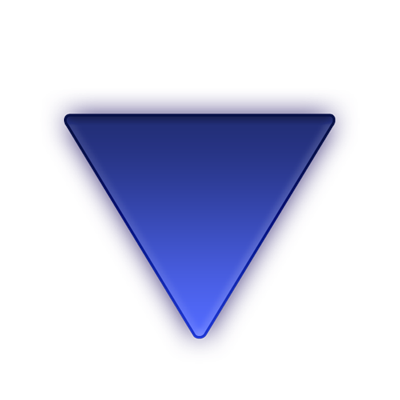
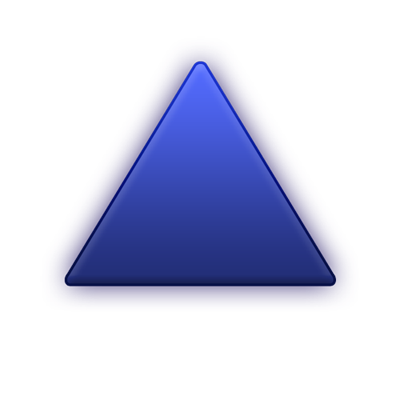
Initial Animations Complete

diff --git a/MagicEightBall/ViewController.swift b/MagicEightBall/ViewController.swift
@@ -45,7 +45,6 @@ class ViewController: UIViewController {
             chosenAnswer = "It's not the spoon that moves, but you..."
         }
         
-        
         return chosenAnswer
     }
     
@@ -85,7 +84,7 @@ class ViewController: UIViewController {
         case 3:
             chosenAnswer = "Outlook not so good"
         case 4:
-            chosenAnswer = "Very doubtful"            
+            chosenAnswer = "Very doubtful"
         default:
             chosenAnswer = "It's not the spoon that moves, but you..."
         }
@@ -96,13 +95,48 @@ class ViewController: UIViewController {
     override func viewDidLoad() {
         super.viewDidLoad()
         
-        triangleBackground.isHidden = true
+        triangleBackground.alpha = 0
+        textInsideTriangle.alpha = 0
     }
 
+    // when "buttonWasPressed" is ran, it thinks of a random number between 0 and 30 and then sees if that number is equal to, less than, or greater than the length of the string that was entered. Then it grabs a string using the getAnswer functions above based on the result of that comparison.
+    
     @IBAction func buttonWasPressed(_ sender: Any) {
+        // Dismisses the keyboard once the button is pressed
+        textEnteredByUser.resignFirstResponder()
+        
+        let randomNumber = arc4random_uniform(30)
+        let textFromUser: String = textEnteredByUser.text!
         
         
+        if Int(randomNumber) > textFromUser.characters.count {
+            textInsideTriangle.text = getNegativeAnswer()
+        }
+        else if Int(randomNumber) == textFromUser.characters.count {
+            textInsideTriangle.text = getNeutralAnswer()
+        }
+        else if Int(randomNumber) < textFromUser.characters.count {
+            textInsideTriangle.text = getPositiveAnswer()
+        }
+        else {
+            print("Something went wrong in the buttonWasPressed function")
+        }
         
+        print("\n---------------------")
+        print("textFromUser = \(textFromUser.characters.count)")
+        print("randomNumber = \(randomNumber)")
+        print("MPI is \(M_PI * 3)")
+        
+        UIView.animate(withDuration: 3) {
+            self.triangleBackground.alpha = 1
+            self.triangleBackground.transform = CGAffineTransform(rotationAngle: CGFloat(M_PI * 3))
+        }
+        
+        
+        UIView.animate(withDuration: 2, delay: 2, animations: {
+            self.textInsideTriangle.alpha = 1
+            }
+        )
     }
     
     override func didReceiveMemoryWarning() {
